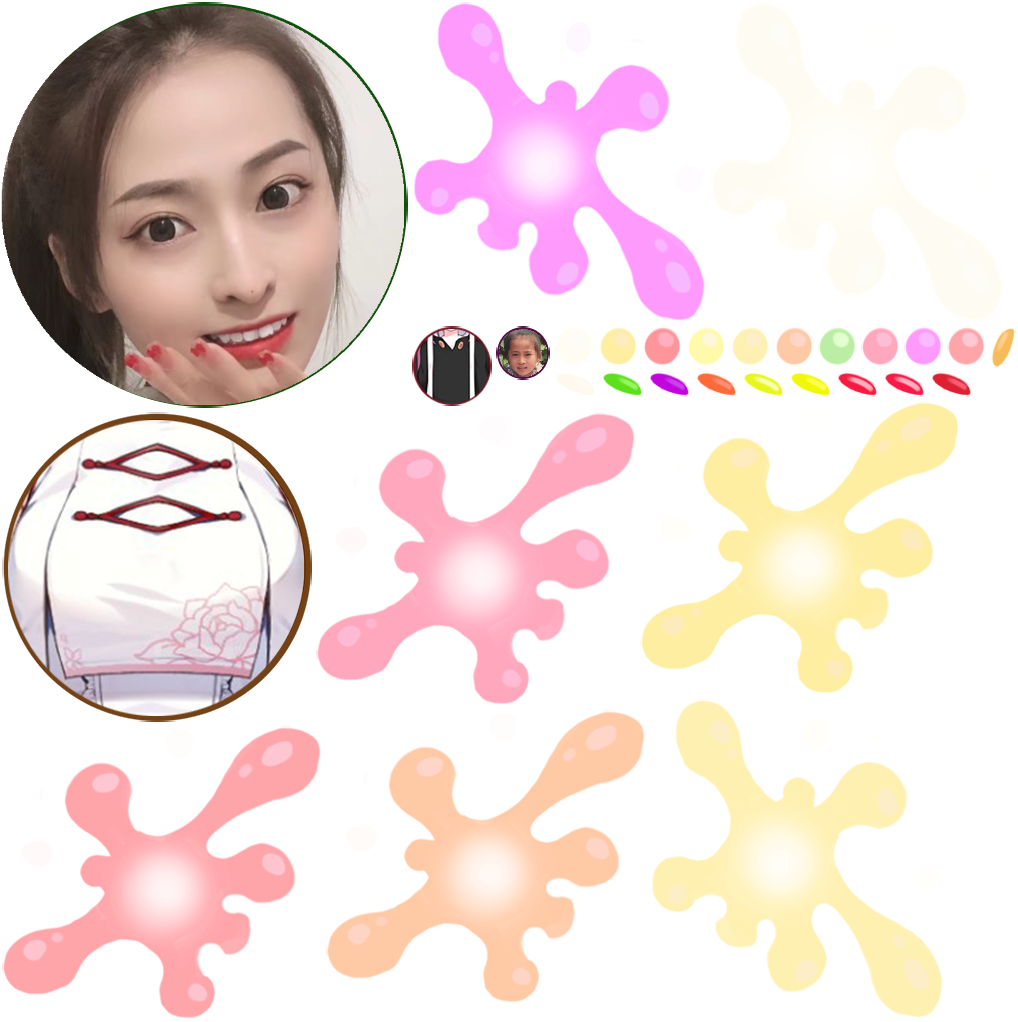
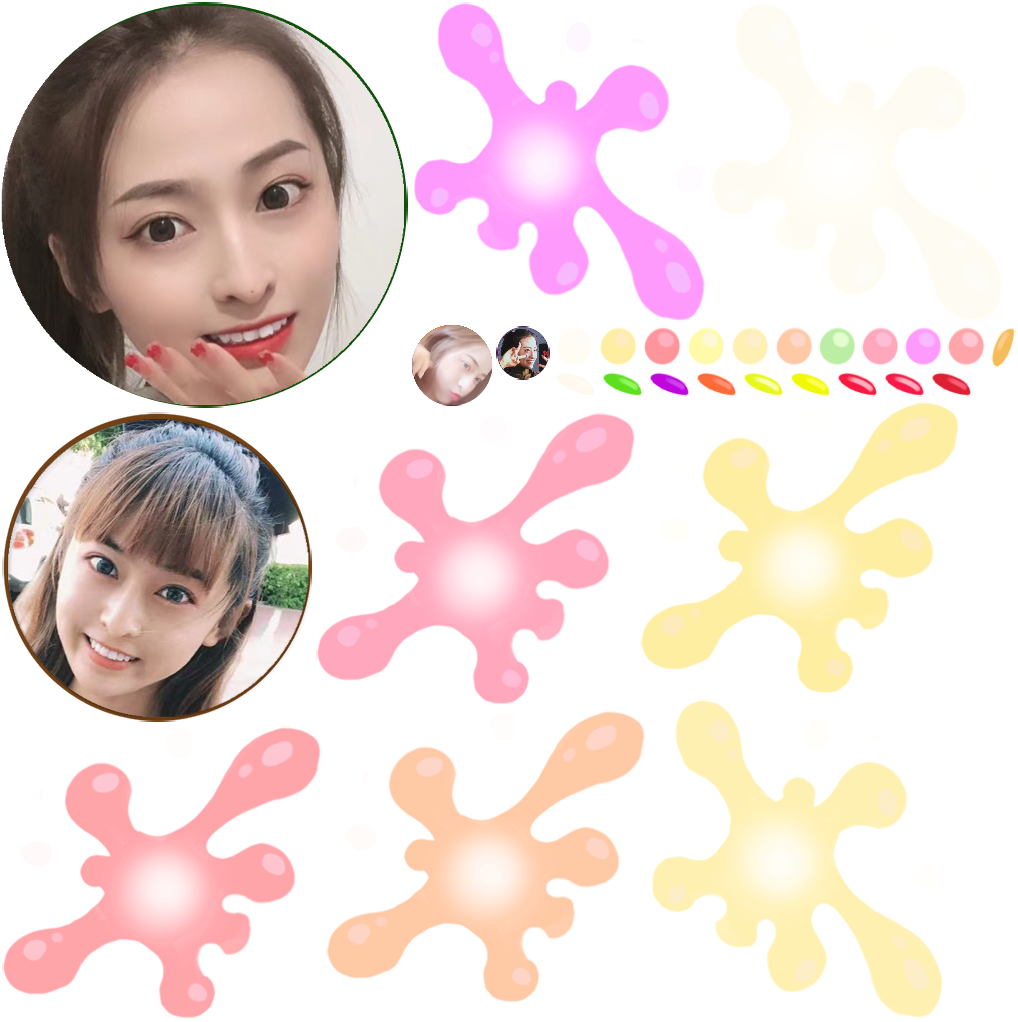
nitial commit

Changed region(s): [[0.0, 0.3943, 0.3045, 0.728], [0.3959, 0.3033, 0.5481, 0.3943]]

diff --git a/index.html b/index.html
@@ -109,7 +109,7 @@
             //        console.log("window.navigator.language",window.navigator.language);
 
             if (window.navigator.language == "zh-CN" || window.navigator.language == "zh-cn") {
-                document.title = "合成大欧派";
+                document.title = "合成大桐桐";
             } 
 
 
